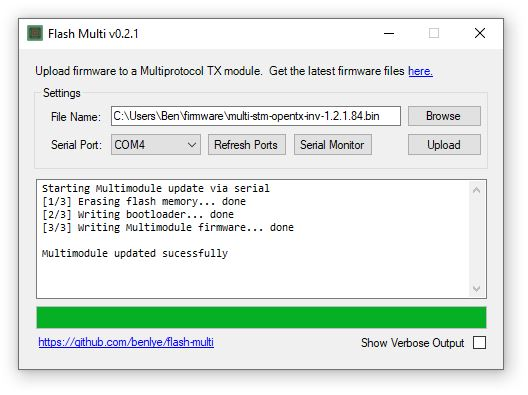
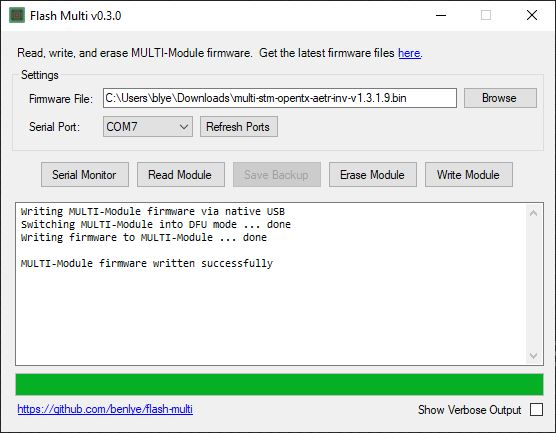
Flash Multi 0.3.0 doc updates (#20)

Changed region(s): [[0.0, 0.0, 1.0, 1.0], [0.5152, 0.5468, 0.5455, 0.6076], [0.0, 0.9722, 0.0303, 1.0]]

diff --git a/README.md b/README.md
@@ -2,14 +2,16 @@
 <img src=https://img.shields.io/github/downloads/benlye/flash-multi/total.svg> <a href="https://scan.coverity.com/projects/benlye-flash-multi"><img alt="Coverity Scan Build Status" src="https://img.shields.io/coverity/scan/18725.svg"/></a>
 
 # About Flash Multi
-Flash Multi is an application for updating (flashing) the firmware on a Jumper, iRangeX, Vantac, 'Banggood', or DIY MULTI-Module.  A GUI application is available for Windows and a shell script for Linux and macOS.
+Flash Multi is an application for managing the firmware on a Jumper, iRangeX, Vantac, 'Banggood', or DIY MULTI-Module.  A GUI application is available for Windows and a shell script for Linux and macOS.
 
-For STM32 modules, firmware upload can be performed using the built-in USB connection or via an external USB-to-serial adapter.  For ATmega328p modules a USBasp programmer is required.
+Flash Multi can read the existing firmware, save a backup, and write new firmware.
+
+For STM32 modules, firmware read/write operations can be performed using the built-in USB connection or via an external USB-to-serial adapter.  For ATmega328p modules a USBasp programmer is required.
 
 Just three steps are required to update your Jumper, iRangeX, or DIY MULTI-Module (full instructions are below):
 1. [Download and install](#installing-flash-multi) Flash Multi and any required [device drivers](#additional-drivers)
 1. Download the appropriate [MULTI-Module firmware file](https://downloads.multi-module.org/)
-1. [Flash](#using-flash-multi) the new firmware to your module
+1. [Write](#using-flash-multi) the new firmware to your module
 
 <p align="center">
   <img src="img/flash-multi.jpg">
@@ -23,8 +25,17 @@ Just three steps are required to update your Jumper, iRangeX, or DIY MULTI-Modul
       1. [Additional Drivers](#additional-drivers)
    1. [Linux and Mac](#linux-and-mac)
 1. [Using Flash Multi](#using-flash-multi)
-   1. [Writing the Bootloader](#writing-the-bootloader)
-   1. [Upload Output](#upload-output)
+   1. [Writing (Updating) Firmware](#writing-updating-firmware)
+      1. [Writing the Bootloader](#writing-the-bootloader)
+      1. [Upload Output](#upload-output)
+   1. [Reading the Module](#writing-updating-firmware)
+      1. [Read Output](#read-output)
+   1. [Saving Backups](#saving-backups)
+   1. [Erasing the Module](#erasing-the-module)
+1. [Cloning a MULTI-Module](#cloning-a-multi-module)
+   1. [How to Clone a Module](#how-to-clone-a-module)
+      1. [EEPROM Backup and Restore](#eeprom-backup-and-restore)
+      1. [Compile Firmware with a Fixed Global ID](#compile-firmware-with-a-fixed-global-id)
 1. [MULTI-Module Firmware](#multi-module-firmware)
 1. [Troubleshooting](#troubleshooting)
 1. [More Information](#more-information)
@@ -86,22 +97,26 @@ Please refer to the [Linux and macOS instructions](doc/Linux.md).
 
 **Note for external USB-to-serial connections:** When using an external USB-to-serial adapter, the `BOOT0` pin on the board must be connected to 3.3V, usually by installing a jumper on the `BOOT0` header pins.
 
+## Writing (Updating) Firmware
+
 1. If the module is installed in the radio and you are connecting to the module's USB port, ensure the radio is powered **off**
 1. Launch **Flash Multi**
 1. Connect your module to the computer using the module's USB port, an external USB-to-serial adapter, or a USBasp device (ATmega328p modules only), as appropriate
    > _Tip: Flash Multi will automatically select the new COM port / device, if it's running when the module is plugged in._
 1. Click the **Browse** button and select a compiled firmware file
+   1. Details of the selected firmware file will be shown.  Carefully check that the file matches your requirements.
 1. If it wasn't automatically selected, select the appropriate COM port or device
-1. Click the **Upload** button
+1. Click the **Write Module** button
+   1. If the selected file was a backup made with EEPROM data, you will be asked to confirm that you want to write it
 
-## Writing the Bootloader
+### Writing the Bootloader
 The bootloader enables flashing the MULTI-Module firmware from a radio which supports this (see [here](https://github.com/pascallanger/DIY-Multiprotocol-TX-Module/blob/master/docs/Flash_from_Tx.md)).  It also enables the native USB port on MULTI-Modules which have one, facilitating firmware updates via native USB rather than an external USB-to-serial adapter.
 
 When flashing with a USB-to-serial adapter the bootloader will be written automatically if the selected firmware file was compiled with support for it.
 
 When flashing via the native USB port the firmware being flashed _must be compiled with support for the bootloader_ otherwise, to avoid rendering the module inoperable, Flash Multi will display an error and stop the flash attempt.
 
-## Upload Output
+### Upload Output
 The output will vary depending on the type of module being flashed.
 
 Modules connected via an external USB-to-serial adapter, and the Jumper JP4IN1 module (which has an *internal* USB-to-serial adapter behind the USB port) will see output like this:
@@ -128,6 +143,91 @@ MULTI-Module updated sucessfully
 ```
 
 For both methods, if the 'Show Verbose Output' box is checked the actual output from each of the flash proceses will be shown. If the flash fails for any reason the verbose messages are a good place to look for more details.
+
+## Reading the Module
+Flash Multi can read the existing firmware from the module and, if it is recent (newer than v1.2.1.79), display information about it, as well as the EEPROM Global ID of the module.
+
+1. If the module is installed in the radio and you are connecting to the module's USB port, ensure the radio is powered **off**
+1. Launch **Flash Multi**
+1. Connect your module to the computer using the module's USB port, an external USB-to-serial adapter, or a USBasp device (ATmega328p modules only), as appropriate
+   > _Tip: Flash Multi will automatically select the new COM port / device, if it's running when the module is plugged in._
+1. If it wasn't automatically selected, select the appropriate COM port or device
+1. Click the **Read Module** button
+
+### Read Output
+For a recent firmware version, the output will look similar to this:
+```
+Reading from MULTI-Module via native USB
+Switching MULTI-Module into DFU mode ... done
+Reading flash memory ... done
+
+Multi Firmware Version:   1.3.1.9 (STM32)
+Expected Channel Order:   AETR
+Multi Telemetry Type:     OpenTX
+Invert Telemetry Enabled: True
+Flash from Radio Enabled: True
+Bootloader Enabled:       True
+Serial Debug Enabled:     False
+
+EEPROM Global ID:         0x665DEF2A
+
+MULTI-Module read successfully
+```
+
+## Saving Backups
+Once the module has been read, the existing firmware can be saved.  The backup can optionally include the EEPROM data.  Saving the EEPROM data allows a module to be cloned.
+
+1. Read the Module
+1. Click the **Save Backup** button
+1. Select whether or not to include the EEPROM data (default is no)
+1. Specify a location for the backup file and click **Save**
+
+**NOTE:** When saving a backup from an Atmega328p module, two files will be created - one containing the firmware and a second containing the EEPROM.  For an STM32 module the firmware and EEPROM data are in the same file.
+
+## Erasing the Module
+Erasing the module will remove the firmware, and optionally erase the EEPROM data.  Once erased, new firmware will need to be written to the module.
+
+**THIS OPERATION CANNOT BE UNDONE**
+
+Erasing the EEPROM data is necessary to restore a module which has had a backup which included EEPROM data retored to it (making it a clone) back to having its own unique ID.
+
+1. If the module is installed in the radio and you are connecting to the module's USB port, ensure the radio is powered **off**
+1. Launch **Flash Multi**
+1. Connect your module to the computer using the module's USB port, an external USB-to-serial adapter, or a USBasp device (ATmega328p modules only), as appropriate
+   > _Tip: Flash Multi will automatically select the new COM port / device, if it's running when the module is plugged in._
+1. If it wasn't automatically selected, select the appropriate COM port or device
+1. Click the **Erase Module** button
+   1. Confirm that you want to erase the module
+   1. Tell Flash Multi if you also want to erase the EEPROM data
+   1. Confirm that you really want to erase the module
+
+Once again, **THIS OPERATION CANNOT BE UNDONE**.
+
+# Cloning a MULTI-Module
+Cloning a MULTI-Module means using the Global ID of one module on another.  This may be useful if you have multiple radios or multiple MULTI-Modules and you want all your modules to control all your models without re-binding them.
+
+**NOTE:** The EEPROM Global ID is not used by protocols which use the CYRF6936 RF component.  You must compile your own firmware with a fixed CYRF ID to acheive the same result for those protocols (Devo, DSM, J6Pro, Traxxas, WFly, WK2x01).
+
+## How to Clone a Module
+There are two ways to clone a module:
+
+### EEPROM Backup and Restore
+EEPROM backup and restore can only be performed with modules with the same MCU - e.g. you cannot backup and Atmega328p module and restore it to an STM32 module.
+
+1. Make a backup of the module to be cloned, making sure you include EEPROM data
+1. Restore the backup to the target module
+
+After restoring the EEPROM you can treat the clone target module like any other - firmware can be read, written, updated etc.  The EEPROM data will not be changed.
+
+**Note:**
+
+### Compile Firmware with a Fixed Global ID
+Global IDs can be copied between modules of any type.
+
+1. Use Flash Multi to read the module to be cloned, make a note of the EEPROM Global ID
+1. Use the Arduino IDE to compile your own firmware from source, defining the ID from step one in the `FORCE_GLOBAL_ID` section
+
+**Note:** If you use Flash Multi to read a module which is running firmware which was compiled with a fixed Global ID, the EEPROM Global ID which is read **will not be the ID the module is actually using**.
 
 # MULTI-Module Firmware
 Pre-compiled MULTI-Module firmware can be downloaded from [https://downloads.multi-module.org/](https://downloads.multi-module.org/).
